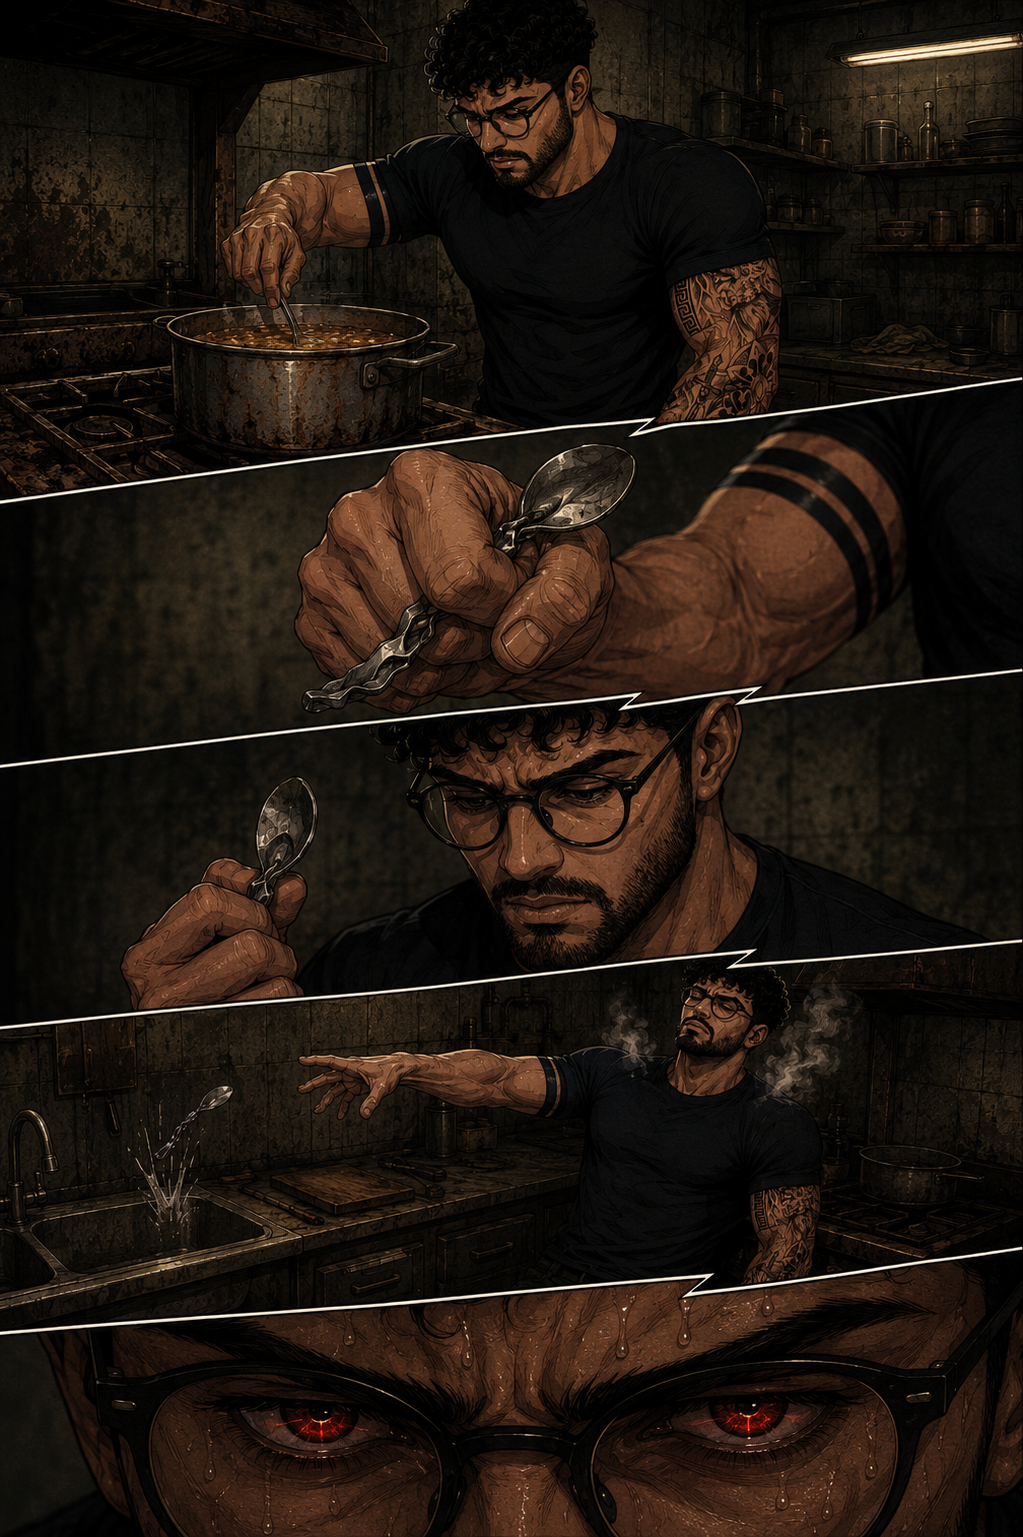
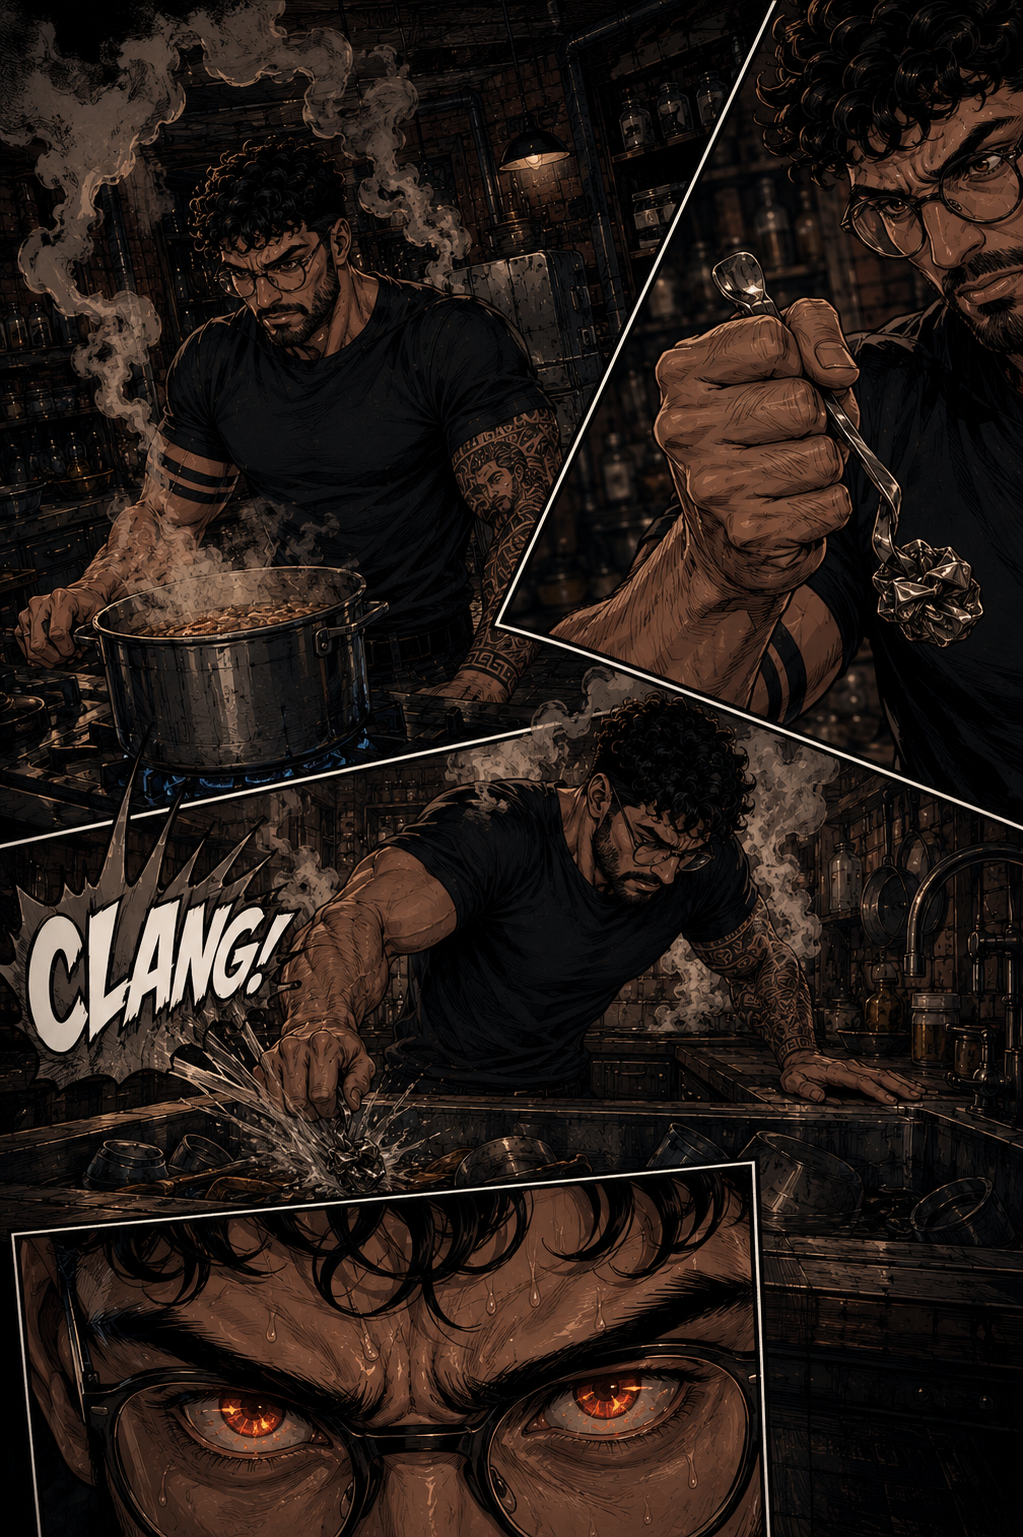
dn

diff --git a/docs/guiones/5_Distrito Nulo/distritonulo_grafico.md b/docs/guiones/5_Distrito Nulo/distritonulo_grafico.md
@@ -97,22 +97,53 @@
 
 ---
 
-### PÁGINA 4.5: Recuperación y Cervezas
+### PÁGINA 4.2: Hidratación y Tensión
 > [!TIP]
 > **PROMPT PARA DIBUJAR ESTA PÁGINA (MIDJOURNEY / DALL-E 3):**
 > Official comic book page layout, multi-panel grid. Modern American dark sci-fi comic book art style. High contrast, desaturated tones. 2D illustration. NO 3D, NO text.
-> Panel 1: In the living room, Uandi is sitting up on the couch, looking slightly better. Julian stands next to him, handing him a glass of water. Uandi takes it with a grateful nod.
-> Panel 2: Julian walks into the workshop door, holding two Corona beer bottles. He hands one bottle to Ian who is sitting at the computer desk, and Julian takes a sip from his own bottle, grinning.
-> Panel 3: Close-up of Julian telling a joke with a sarcastic, mocking gesture. Ian and Uandi are laughing in the background, a moment of warm relief.
-> Panel 4: Close-up of the computer screen in the workshop showing the red spikes flattening down into a calm green baseline.
-> Panel 5: Uandi, looking much better and smiling, pulls the suction sensors off his forehead and arms, leaving the wires hanging.
+> Panel 1: Inside the base kitchen. Julian (slender, fade haircut, navy blue crewneck sweater) is opening an old refrigerator, taking out two Corona beer bottles and holding a glass water pitcher. In the background, visible through the kitchen doorway in the living room, Uandi is sitting on the leather couch with round suction biometric electrodes attached to his head and arms.
+> Panel 2: In the living room, Julian is handing a glass of water to Uandi who is sitting on the couch, looking weak but grateful.
+> Panel 3: Julian enters the workshop, holding two Corona beer bottles. He hands one to Ian who is sitting at the computer desk. Ian looks very worried, staring at the computer screens.
 > --no 3d, photorealistic, cgi, text
 
-* **Viñeta 18 (Plano Americano):** En el living. Uandi se incorpora en el sillón sintiéndose un poco mejor; Julián le entrega un vaso de agua que Uandi recibe agradecido.
-* **Viñeta 18b (Plano Medio):** Julián va al taller con dos botellas de cerveza Corona en la mano; le ofrece una a Ian en su escritorio y él mismo le da un trago a la suya, con una media sonrisa relajada.
-* **Viñeta 18c (Plano Corto):** Julián gesticula mientras dice algo burlón e ingenioso. De fondo, Ian y Uandi se ríen, disipando la tensión acumulada.
-* **Viñeta 18d (Plano Detalle):** La pantalla del taller muestra que las lecturas electromagnéticas han bajado por completo, estabilizándose en una línea horizontal verde.
-* **Viñeta 18e (Plano Medio):** Uandi, ya recuperado y con mejor color, se despega los chupetes de la frente y de los brazos, dejándolos a un lado.
+* **Viñeta 17c (Plano Medio):** En la cocina de la base. Julián está abriendo la heladera vieja, sacando un par de botellas de cerveza Corona y agarrando una jarra de agua. Lanza un comentario al living. Al fondo, a través de la puerta de la cocina, se ve a Uandi sentado en el sillón de cuero con los sensores biométricos de succión puestos en los brazos y la frente.
+* **Viñeta 17d (Plano Medio):** En el living. Julián le entrega un vaso con agua a Uandi. Uandi lo recibe con un gesto de agradecimiento cansado, incorporándose un poco en el sillón.
+* **Viñeta 17e (Plano Americano):** Julián entra al taller del fondo sosteniendo las dos cervezas Corona. Le extiende una a Ian, quien está en su silla frente al escritorio de monitores. Ian sigue sumamente preocupado, con la vista fija en las pantallas del taller que muestran los gráficos en rojo.
+
+---
+
+### PÁGINA 4.5: Estabilización y Alivio
+> [!TIP]
+> **PROMPT PARA DIBUJAR ESTA PÁGINA (MIDJOURNEY / DALL-E 3):**
+> Official comic book page layout, multi-panel grid. Modern American dark sci-fi comic book art style. High contrast, desaturated tones. 2D illustration. NO 3D, NO text.
+> Panel 1: Close-up of the computer screens in the workshop, displaying biometric charts of Uandi. The lines and spikes on the screen are glowing bright red, indicating unstable quantum metrics. Ian is looking at them with a tense, worried expression.
+> Panel 2: Close-up of the computer screen showing the biometric charts. The spikes are starting to settle, and the color on the screens has shifted from red to a warning orange/yellow.
+> Panel 3: Inside the workshop, Ian is looking at the screen which now shows a flat, calm green line. Ian looks relieved, with a slight smile. Julian is standing next to him, raising his Corona beer bottle in a toast. They are both holding their beers.
+> Panel 4: In the living room, Uandi is sitting up on the leather couch, smiling and looking much better. He is pulling the biometric suction electrodes off his arms and forehead, leaving the wires hanging.
+> --no 3d, photorealistic, cgi, text
+
+* **Viñeta 18 (Plano Corto):** En el taller, primer plano de las pantallas mostrando las lecturas de Uandi en picos altos y de un color rojo intenso. La luz roja ilumina el rostro de Ian, quien observa la pantalla con gran preocupación.
+* **Viñeta 18b (Plano Detalle):** La misma pantalla en primer plano. Los picos electromagnéticos empiezan a bajar y el color de las métricas pasa de rojo a un tono naranja de alerta moderada.
+* **Viñeta 18c (Plano Medio):** Ian frente a la pantalla, que ahora muestra las líneas completamente planas y en color verde. Ian exhala un suspiro de alivio y relaja los hombros. A su lado, Julián levanta su botella de Corona brindando con él en el taller para descomprimir.
+* **Viñeta 18d (Plano Americano):** En el living. Uandi está sentado en el sillón de cuero, con mejor color de piel y una sonrisa en el rostro al escuchar a Julián. Se está quitando los sensores de chupete biométricos de los brazos y la frente, dejándolos colgando.
+
+---
+
+### PÁGINA 4.7: El Partido y el Vacío
+> [!TIP]
+> **PROMPT PARA DIBUJAR ESTA PÁGINA (MIDJOURNEY / DALL-E 3):**
+> Official comic book page layout, multi-panel grid. Modern American dark sci-fi comic book art style. High contrast, desaturated tones. 2D illustration. NO 3D, NO text.
+> Visual Continuity Rule: The base living room has a single, large, wide dark brown leather couch. An old CRT TV on a low stand is positioned directly in front of the couch (facing the couch). The camera is always positioned in front of the couch (straight-on frontal view of the couch, never profile/side view). The TV is visually positioned in the foreground on the right side of the frame, angled towards the couch, so we see its screen and side facing the boys (the TV is not next to the couch facing the camera).
+> Panel 1: Inside the base living room. Uandi (robust, round glasses, short trimmed beard) stands up from the large, wide dark brown leather couch and walks slowly towards the kitchen doorway. Straight-on front view of the couch.
+> Panel 2: Julian (slender, fade haircut) is sitting comfortably back on the same large, wide dark brown leather couch, holding a Corona beer bottle. He points a remote control forward. The CRT TV is in the foreground on the right side of the frame, angled towards the couch, showing a green soccer field. Julian looks back towards the workshop doorway, calling out. Straight-on front view of the couch.
+> Panel 3: Ian (slender, thick glasses, grey hoodie) comes out of the workshop and sits down next to Julian on the same large, wide dark brown leather couch. Ian is also holding a Corona beer bottle. The two friends sit side by side on the couch, facing the camera. The CRT TV is in the foreground on the right, angled towards the couch. Straight-on front view of the couch.
+> Panel 4: In the kitchen, Uandi stands in front of the open old refrigerator. The pale cold light from the open fridge illuminates his face, showing empty shelves inside. Uandi is speaking over his shoulder. In the foreground, Ian and Julian are sitting side by side on the same large, wide dark brown leather couch, looking forward. Ian turns his head back to look at Uandi in the kitchen. Julian, next to him, looks very angry/annoyed, holding his beer. The CRT TV is in the foreground on the right, showing a goal (gol) being scored on the screen. Straight-on front view of the couch.
+> --no 3d, photorealistic, cgi, text
+
+* **Viñeta 18e (Plano Medio):** Uandi se levanta del único y amplio sillón de cuero marrón de la base (habiendo dejado a un lado los electrodos biométricos) y se dirige hacia la cocina. El sillón se muestra de frente en plano frontal directo (nunca de perfil o costado).
+* **Viñeta 18e2 (Plano Medio):** Julián se recuesta cómodamente en el mismo sillón de cuero marrón (visto de frente en plano frontal directo). Sintoniza el partido de fútbol usando el control remoto. El televisor de tubo CRT está situado enfrente del sillón, visible en primer plano a la derecha de la viñeta y angulado hacia el sillón para que la pantalla quede a la vista. Julián le grita a Ian hacia el taller.
+* **Viñeta 18e3 (Plano Medio):** Ian sale del taller y se sienta en el sillón junto a Julián. Ambos están sentados lado a lado, de frente al lector (plano frontal directo del sillón), sosteniendo sendas botellas de cerveza Corona. El televisor sigue al frente a la derecha en primer plano.
+* **Viñeta 18e4 (Plano General):** Uandi está parado frente a la heladera abierta de la cocina en el fondo a la izquierda. En primer plano, los chicos están sentados de frente al lector en el sillón de cuero marrón; Ian gira la cabeza hacia atrás para responderle a Uandi. A la derecha de la viñeta, el televisor de tubo CRT (al frente y angulado hacia el sillón) muestra un gol en la pantalla, y Julián mira con gesto de bronca y enojado.
 
 ---
 
@@ -120,18 +151,17 @@
 > [!TIP]
 > **PROMPT PARA DIBUJAR ESTA PÁGINA (MIDJOURNEY / DALL-E 3):**
 > Official comic book page layout, multi-panel grid. Modern American dark sci-fi comic book art style. High contrast, desaturated tones. 2D illustration. NO 3D, NO text.
+> Visual Continuity Rule: The base living room features a single, large, wide dark brown leather couch. An old CRT TV on a low stand is positioned directly in front of the couch (facing the couch). The camera is always positioned directly in front of the couch (straight-on frontal view, never profile). The TV is visually positioned in the foreground on the right side of the frame, angled towards the couch, so we see its screen and side facing the boys (the TV is not next to the couch facing the camera).
 > Panel 1: Inside the base kitchen/living area. Close-up of Ian's hand setting down an empty Corona beer bottle on the rustic wooden table.
-> Panel 2: Uandi is standing by the open old refrigerator in the background, looking inside. The pale cold light of the fridge glows on his face. The shelves are empty except for some half-empty jars. Uandi has a disappointed look.
-> Panel 3: Ian is putting on his dark grey hooded jacket, looking back at Uandi. Uandi is closing the fridge door, speaking over his shoulder.
-> Panel 4: Ian and Uandi are walking towards the main door, wearing their hooded jackets. In the background, Julian is sitting back comfortably on the large leather couch, holding a remote control. The glowing CRT TV screen in front of him shows a soccer/football match with a green pitch.
-> Panel 5: Close-up of Julian sitting on the couch, staring at the TV with complete disinterest, waving a hand dismissively without looking at them.
+> Panel 2: Uandi is closing the old refrigerator door, looking back over his shoulder. Ian is putting on his dark grey hooded jacket.
+> Panel 3: Ian and Uandi are walking towards the main door, wearing their hooded jackets. In the background, Julian is sitting back comfortably on the same large, wide dark brown leather couch, holding a remote control. The TV screen in front of him on the right is glowing. Straight-on front view of the couch.
+> Panel 4: Close-up of Julian sitting on the same large, wide dark brown leather couch, staring at the TV on the right, waving a hand dismissively without looking at them. Straight-on front view of the couch.
 > --no 3d, photorealistic, cgi, text
 
 * **Viñeta 18f (Plano Detalle):** Primer plano de la mano de Ian apoyando la botella vacía de cerveza Corona sobre la mesa rústica de madera de la base.
-* **Viñeta 18g (Plano Medio):** Uandi frente a la vieja heladera abierta en la cocina, revisando su interior. La luz fría interna ilumina su rostro, mostrando estantes casi desiertos.
-* **Viñeta 18h (Plano Medio):** Uandi cierra la heladera y habla de espaldas, mientras Ian se pone su campera gris con capucha, respondiéndole con un gesto de cabeza.
-* **Viñeta 18i (Plano General):** Ian y Uandi avanzan hacia la puerta de salida abrigados con sus capuchas. De fondo, Julián se acomoda en el amplio sillón de cuero frente al televisor de tubo, sintonizando un partido de fútbol con la pantalla brillando en verde.
-* **Viñeta 18j (Primer Plano):** Julián desde el sillón, con la vista fija en la tele, levantando la mano en un gesto de desinterés despectivo y sarcasmo, sin molestarse en mirarlos.
+* **Viñeta 18g (Plano Medio):** Uandi cierra la puerta de la heladera de un golpe, hablando de espaldas, mientras Ian se coloca su campera gris texturizada con capucha y se la cierra.
+* **Viñeta 18h (Plano General):** Ian y Uandi avanzan abrigados con sus capuchas hacia la puerta trasera de salida de la base. De fondo, se observa el sillón de cuero de frente en plano frontal directo con Julián sentado en él, y el televisor enfrente de él a la derecha de la viñeta encendido.
+* **Viñeta 18i (Primer Plano):** Julián en el sillón de cuero marrón (visto de frente en plano frontal directo), con la vista clavada en la tele al frente a la derecha, levantando la mano libre en un gesto de desinterés absoluto y sarcasmo, despidiéndolos sin mirarlos.
 
 ---
 

diff --git a/docs/guiones/5_Distrito Nulo/distritonulo_guion.md b/docs/guiones/5_Distrito Nulo/distritonulo_guion.md
@@ -52,30 +52,47 @@
 
 ---
 
-### PÁGINA 4.5 (Recuperación y Cervezas)
-* **Viñeta 18 (Plano Americano):** De regreso en el living. Uandi se reincorpora en el sillón con un semblante un poco más recuperado y mejor color de piel. Julián está a su lado entregándole un vaso de agua fría, el cual Uandi toma agradecido con un gesto de cabeza.
+### PÁGINA 4.2 (Hidratación y Tensión)
+* **Viñeta 17c (Plano Medio):** En la cocina de la base. Julián está abriendo la heladera vieja, sacando un par de botellas de cerveza Corona y agarrando una jarra de agua. Lanza un comentario cómico al living para intentar aliviar el ambiente. Al fondo, a través del marco de la puerta de la cocina, se ve a Uandi sentado en el sillón de cuero con los electrodos biométricos de succión pegados en los brazos y en la frente.
+  * **JULIÁN:** —¡Che, sabelotodo! ¿Uandi toma agua o le damos de la canilla para ver si brilla en la oscuridad?
+* **Viñeta 17d (Plano Medio):** En el living de la base. Julián le entrega un vaso de agua fresca (servida de la jarra) a Uandi. Uandi lo toma con manos temblorosas y le da un trago largo, agradeciendo con un gesto de cabeza cansado.
   * **JULIÁN:** —Tomá, gordo, metele agua que estás seco. Casi te vas al lobby.
   * **UANDI:** —Gracias, che. Se me está pasando un poco...
-* **Viñeta 18b (Plano Medio):** Julián entra al taller de Ian sosteniendo dos botellas de cerveza Corona heladas. Le ofrece una a Ian en su silla de trabajo y Julián le da un trago a la suya con una media sonrisa tranquila.
+* **Viñeta 17e (Plano Americano):** Julián entra al taller con dos botellas de cerveza Corona heladas. Le extiende una a Ian, quien está sentado frente a su escritorio rodeado de monitores. Ian sigue extremadamente preocupado, con la vista fija en las pantallas del taller que muestran los gráficos en un preocupante color rojo brillante.
   * **JULIÁN:** —Tomate una Corona, sabelotodo. Así te relajás un toque, que tenés una cara de bardo que asusta.
-* **Viñeta 18c (Plano Corto):** Julián gesticula de forma graciosa e ingeniosa, buscando desdramatizar. Al fondo de la viñeta, Ian y Uandi sonríen y se ríen levemente, sintiendo un cálido alivio doméstico.
-  * **JULIÁN:** —Che, si Uandi estira la pata por esta gripe interdimensional, me pido su campera táctica. A mí me va a quedar más facherita.
-* **Viñeta 18d (Plano Detalle):** Primer plano de la pantalla del monitor en el taller, donde los picos rojos ruidosos finalmente bajan y se estabilizan en una línea verde lisa y horizontal.
-* **Viñeta 18e (Plano Medio):** Uandi, con mejor semblante, se arranca los cables y chupetes de la frente y de los brazos desnudos, dejándolos sobre el sillón.
+
+---
+
+### PÁGINA 4.5 (Estabilización y Alivio)
+* **Viñeta 18 (Plano Corto):** En el taller, primer plano de las pantallas mostrando las lecturas de Uandi en picos cuánticos caóticos y de un color rojo intenso. La luz roja ilumina el rostro de Ian, quien observa las lecturas con angustia y el ceño muy fruncido.
+  * **IAN:** —(Susurrando para sí mismo, tenso) Sigue demasiado inestable...
+* **Viñeta 18b (Plano Detalle):** Primer plano de la pantalla. Los picos electromagnéticos y las anomalías de energía empiezan a calmarse, y el color de las métricas pasa de un rojo vivo a un tono naranja de alerta moderada. Ian contiene la respiración, observando con suma atención.
+* **Viñeta 18c (Plano Medio):** Ian frente a la pantalla, que finalmente muestra las líneas totalmente estables y en un color verde brillante. Ian suspira aliviado y relaja los hombros con una pequeña sonrisa. A su lado en el taller, Julián levanta su botella de Corona con una media sonrisa relajada, chocándola suavemente con la de Ian.
+  * **JULIÁN:** —Viste, te dije que era una gripe de mierda. Che, si Uandi estira la pata por esta gripe interdimensional, me pido su campera táctica. A mí me va a quedar más facherita.
+  * **IAN:** —(Sonriendo levemente, chocando la cerveza) Sos insoportable, Julián.
+* **Viñeta 18d (Plano Americano):** En el living. Uandi, sentado en el sillón de cuero gastado y viéndose mucho mejor y con color de piel normal, sonríe al escuchar la voz de Julián desde el taller. Empieza a retirarse los sensores de chupete biométricos de la frente y de los brazos descubiertos, dejándolos caer sobre el sillón mientras sonríe con alivio.
   * **UANDI:** —Listo, ya fue. Me siento diez puntos ahora. Ian, apagá esa máquina que me da dolor de cabeza.
 
 ---
 
-### PÁGINA 4.8 (La Heladera Vacía)
+### PÁGINA 4.7 (El Partido y el Vacío)
+* **Viñeta 18e (Plano Medio):** Uandi se levanta del sillón de cuero gastado del living, estirándose tras haberse quitado los electrodos de chupete biométricos. Se le ve cansado pero recuperado, caminando con paso lento pero firme hacia la cocina en el fondo de la base.
+* **Viñeta 18e2 (Plano Medio):** Julián se tira cómodamente en el amplio sillón de cuero, sosteniendo su botella de cerveza Corona helada. Agarra el control remoto de la mesa y enciende la TV de tubo CRT, sintonizando la transmisión de un partido de fútbol con la pantalla brillando en verde. Se da vuelta un poco para gritarle a Ian en el taller.
+  * **JULIÁN:** —¡Che, Ian! Vení que ya arranca el partido. Dejá de perseguirte con las pantallitas.
+* **Viñeta 18e3 (Plano Medio):** Ian sale por la puerta del taller con su cerveza Corona en la mano y se sienta en el sillón al lado de Julián. Ambos amigos se recuestan juntos frente a la televisión, Ian tomando un sorbo largo de su botella y respirando con alivio.
+* **Viñeta 18e4 (Plano General):** Uandi está en la cocina de la base, de pie frente a la heladera vieja y abierta. La luz fría interna ilumina su rostro, mostrando estantes casi desiertos salvo por un par de frascos vacíos. Uandi habla de espaldas al living; Ian, sentado en el sillón de cuero, gira la cabeza hacia atrás para mirarlo y responderle. Al lado, Julián tiene la botella de Corona en la mano y mira fijamente el partido de la tele con gesto de bronca y cara de pocos amigos porque en la pantalla se ve claramente que acaban de anotar un gol en contra.
+  * **UANDI:** —Che, en esta heladera no hay una mierda. Ni un cacho de queso de la semana pasada.
+
+---
+
+### PÁGINA 4.8 (La Heladera y la Salida)
 * **Viñeta 18f (Plano Detalle):** Un primer plano de la mano de Ian apoyando con suavidad su botella de cerveza Corona vacía sobre la mesa rústica de madera de la base.
   * **EFECTO DE SONIDO:** ¡CLINK!
-* **Viñeta 18g (Plano Medio):** Uandi frente a la heladera vieja y abierta de la cocina. La luz pálida del electrodoméstico le da de lleno en la cara, revelando estantes casi vacíos salvo por unos pocos frascos de conserva vacíos. Uandi tiene un gesto de clara decepción.
-  * **UANDI:** —Che, en esta heladera no hay una mierda. Ni un cacho de queso de la semana pasada.
-* **Viñeta 18h (Plano Medio):** Uandi cierra la heladera de un golpe de espaldas. A un lado, Ian se pone su campera con capucha gris texturizada y le responde mirándolo de reojo.
+* **Viñeta 18g (Plano Medio):** Uandi cierra la puerta de la heladera de un golpe de espaldas. A un lado, Ian se pone su campera con capucha gris texturizada, subiéndose el cierre mientras le responde mirándolo de reojo.
   * **IAN:** —Vamos al chino de la esquina a comprar carne y verduras. Hacemos un guiso caliente, a ver si con eso recuperás fuerzas.
-* **Viñeta 18i (Plano General):** Ian y Uandi avanzan hacia la puerta trasera de chapa abrigados con sus capuchas. Al fondo de la escena, Julián se acomoda de forma displicente en el amplio sillón de cuero frente al televisor de tubo CRT, que sintoniza un partido de fútbol con la pantalla brillando en tonos verdosos.
+* **Viñeta 18h (Plano General):** Ian y Uandi avanzan hacia la puerta trasera de chapa de salida de la base abrigados con sus capuchas. Al fondo de la escena, Julián sigue cómodamente tirado en el amplio sillón de cuero de espaldas, con el partido de fútbol de fondo en la televisión de tubo CRT.
   * **UANDI:** —Julián, vamos a comprar para cenar. ¿Querés algo?
-* **Viñeta 18j (Primer Plano):** Julián desde el sillón, con la vista fija en la televisión, levantando despectivamente la mano libre en un gesto de desinterés absoluto e ironía, sin dignarse a mirarlos.
+* **Viñeta 18i (Primer Plano):** Julián desde el sillón, con la vista fija en la televisión, levantando la mano libre en un gesto de desinterés absoluto e ironía, despidiéndolos sin molestarse en mirarlos.
   * **JULIÁN:** —Sí, papá, vayan tranquilos. Si cae la infantería de Vanguard, les digo que se sienten a ver el partido y los esperen con unos mates. Traigan alfajores si les queda cambio.
 
 ---

diff --git a/docs/guiones/5_Distrito Nulo/distritonulo.md b/docs/guiones/5_Distrito Nulo/distritonulo.md
@@ -27,14 +27,34 @@
 * **Viñeta 7 (Plano Detalle):** Ian se encierra en su taller con su computadora y múltiples monitores. Ejecuta el examen y ve con espanto gráficos con picos cuánticos/electromagnéticos caóticos en sangre, idénticos a los del portal.
   * **IAN:** —(Asustado) No... esto no es una gripe... Es la firma cuántica del portal en sus células.
 
-### PÁGINA 4.5 (La Recuperación)
-* **Viñeta 7b (Plano Medio):** Uandi se reincorpora sintiéndose mejor; Julián le da un vaso de agua. Julián entra al taller con dos botellas de cerveza Corona y le convida una a Ian.
-* **Viñeta 7c (Plano Corto):** Julián bromea sobre quedarse con la campera de Uandi si se muere, haciéndolos reír a todos. Las lecturas en la pantalla del taller bajan y se normalizan en una línea verde. Uandi se quita los cables.
-  * **JULIÁN:** —Che, si Uandi estira la pata por esta gripe, me pido su campera táctica.
+### PÁGINA 4.2 (Hidratación y Tensión)
+* **Viñeta 7b (Plano Medio):** Julián en la cocina de la base. Se le ve abriendo la heladera vieja, buscando unas botellas de cerveza Corona y agarrando una jarra de agua. Lanza un comentario humorístico en voz alta. De fondo, a lo lejos en el sillón del living, se observa a Uandi sentado con los electrodos biométricos de succión colocados.
+  * **JULIÁN:** —¡Che, sabelotodo! ¿Uandi toma agua o le damos de la canilla para ver si brilla en la oscuridad?
+* **Viñeta 7c (Plano Medio):** Julián le entrega un vaso de agua (servido de la jarra) a Uandi, quien está en el sillón y lo recibe con un gesto de cabeza agradecido pero cansado.
+  * **JULIÁN:** —Tomá, gordo, metele agua que estás seco. Casi te vas al lobby.
+  * **UANDI:** —Gracias, che. Se me está pasando un poco...
+* **Viñeta 7d (Plano Medio):** Julián entra al taller del fondo sosteniendo dos botellas de cerveza Corona. Le ofrece una a Ian y él se queda con la otra. Ian está en su escritorio, tenso y muy preocupado, mirando fijamente las pantallas que muestran los gráficos en un preocupante color rojo.
+  * **JULIÁN:** —Tomate una Corona, genio. Así bajás un cambio, que tenés una cara de estreñido que asusta.
+
+### PÁGINA 4.5 (Estabilización y Alivio)
+* **Viñeta 7e (Plano Detalle):** Primer plano de la pantalla en el taller, donde Ian observa con angustia cómo los gráficos biométricos de Uandi siguen marcando picos y anomalías en color rojo intenso.
+* **Viñeta 7f (Plano Detalle):** La misma pantalla en otra viñeta. Los picos empiezan a descender y a calmarse, y el color de las métricas pasa de rojo a un tono naranja de alerta moderada. Ian lo mira fijamente con ceño fruncido, conteniendo el aliento.
+* **Viñeta 7g (Plano Medio):** Ian mira la pantalla que ahora muestra las métricas completamente estabilizadas en una línea verde horizontal y tranquila. Ian exhala un suspiro largo de alivio y sonríe, relajando los hombros. Julián levanta su Corona brindando con Ian en el taller.
+  * **JULIÁN:** —Viste, te dije que era una gripe de mierda. Che, si Uandi estira la pata por esta gripe interdimensional, me pido su campera táctica. A mí me va a quedar más facherita.
+* **Viñeta 7h (Plano Medio):** En el living. Uandi, sentado en el sillón de cuero y viéndose mucho mejor, sonríe al escuchar el chiste de Julián desde el taller y se quita los electrodos de la frente y de los brazos, dejándolos caer con los cables colgando.
+  * **UANDI:** —Listo, ya fue. Me siento diez puntos ahora. Ian, apagá esa máquina que me da dolor de cabeza.
+
+### PÁGINA 4.7 (El Partido y el Vacío)
+* **Viñeta 7i (Plano Medio):** Uandi se levanta del sillón (tras haberse quitado los electrodos) y camina con paso aún algo pesado hacia la cocina de la base.
+* **Viñeta 7j (Plano Medio):** Julián se tira cómodamente en el amplio sillón de cuero con su botella de cerveza Corona, enciende la TV de tubo CRT con el control remoto y le habla a Ian en el taller.
+  * **JULIÁN:** —¡Che, Ian! Vení que ya arranca el partido. Dejá de perseguirte con las pantallitas.
+* **Viñeta 7k (Plano Medio):** Ian sale del taller con su cerveza Corona en la mano y se sienta en el sillón al lado de Julián, respirando con alivio.
+* **Viñeta 7l (Plano General):** Uandi está en la cocina frente a la heladera vieja y abierta, con la luz fría iluminándolo. Habla de espaldas hacia el living; Ian se gira en el sillón para mirarlo. Al lado, Julián mira fijo el televisor con gesto de bronca y cara de pocos amigos al ver que metieron un gol en contra en el partido.
+  * **UANDI:** —Che, en esta heladera no hay una mierda. Ni un cacho de queso de la semana pasada.
 
 ### PÁGINA 4.8 (La Heladera y la Salida)
-* **Viñeta 7d (Plano Detalle):** Ian deja su cerveza vacía sobre la mesa rústica. Uandi abre la vieja heladera de la cocina, la revisa y ve que está vacía; le dice a Ian que hay que ir a comprar carne y verduras al chino para la cena.
-* **Viñeta 7e (Plano General):** Ambos se abrigan con sus camperas y capuchas para salir. Julián se tira cómodamente en el sillón de cuero a ver un partido de fútbol en la tele y les responde con total desinterés y sarcasmo cuando le avisan que se van.
+* **Viñeta 7m (Plano Detalle):** Ian deja su cerveza vacía sobre la mesa rústica. Uandi cierra la heladera vieja, y le dice a Ian que hay que ir a comprar carne y verduras al chino para la cena.
+* **Viñeta 7n (Plano General):** Ambos se abrigan con sus camperas y capuchas para salir. Julián sigue tirado en el sillón frente al partido y les responde con desinterés y sarcasmo cuando le avisan que se van.
   * **JULIÁN:** —Sí, papá, vayan tranquilos. Si cae la infantería de Vanguard, les digo que se sienten a ver el partido y los esperen con unos mates.
 
 ### PÁGINA 5 (La Caminata)

diff --git a/docs/guiones/5_Distrito Nulo/distritonulo_resumen.md b/docs/guiones/5_Distrito Nulo/distritonulo_resumen.md
@@ -20,8 +20,10 @@
 * **Puntos Clave:**
   - **Págs. 1 - 2 (El regreso del aeropuerto):** Viaje nocturno en auto de vuelta del aeropuerto JFK en una Nueva York gris y otoñal. Un silencio pesado envuelve a los chicos tras despedir a Sofi (quien se fue a Tokio). A través de un diálogo orgánico sin exposición burda, recuerdan que Sofi pertenece al Universo 5458, que dicho mundo se destruyó tras el noclip accidental que hicieron para rescatar a Julián de los Backrooms, y que ella decidió quedarse a conocer la Tierra antes que desvanecerse.
   - **Págs. 3 - 4 (La Base de Dumbo y los exámenes):** Al llegar a la base, Julián e Ian se dispersan en sus tareas. Julián se sienta en el sillón de cuero gastado del living, pero Ian entra cargando a Uandi (visiblemente descompuesto, transpirando frío y temblando) y obliga a Julián a levantarse para sentar allí a Uandi. Ian le conecta sensores de chupete en los brazos y frente. Luego, Ian va a su taller y realiza el examen de estado de Uandi desde su computadora rodeado de monitores. Detecta picos electromagnéticos y anomalías cuánticas alarmantes en la sangre de Uandi, asustándose mucho.
-  - **Pág. 4.5 (Recuperación y cerveza):** Uandi se siente mejor poco a poco en el sillón. Julián le da un vaso de agua y le ofrece una cerveza Corona a Ian. Ambos (Ian y Julián) beben cerveza y Julián suelta un comentario gracioso. Se ríen. Ian ve que las lecturas en sus monitores son buenas ahora, y Uandi se quita los cables.
-  - **Pág. 4.8 (La heladera y la salida):** Ian deja su cerveza vacía en la mesa. Uandi va a la heladera, la revisa y nota que no hay nada para cenar; Ian le responde que vayan a comprar los ingredientes al chino. Ambos se preparan para salir. Mientras tanto, Julián se sienta cómodo en el sillón a mirar un partido de fútbol en la televisión y les responde con desinterés y sarcasmo cuando le avisan que salen.
+  - **Pág. 4.2 (Hidratación y Cervezas):** Julián va a la heladera de la base y saca un par de cervezas Corona y una jarra de agua. Le lleva un vaso de agua a Uandi al sillón del living, y luego se dirige al taller a ofrecerle una Corona a Ian. Ian, no obstante, sigue muy preocupado mirando las lecturas caóticas en rojo en las pantallas del taller.
+  - **Pág. 4.5 (Estabilización y Alivio):** Ian observa las lecturas de Uandi en su monitor, las cuales pasan progresivamente de rojo a naranja, y finalmente a verde, indicando que se ha estabilizado. Julián bromea sobre quedarse con la campera de Uandi si se muere, lo que hace que ambos brinden con su Corona relajando la tensión. En el living, Uandi se siente recuperado, sonríe y se quita los electrodos de succión del sillón.
+  - **Pág. 4.7 (El Partido y el Vacío):** Uandi se dirige a la cocina mientras Julián se instala en el sillón con su cerveza y enciende la TV para ver el fútbol, llamando a Ian. Ian sale del taller y se sienta con él a ver el partido, Corona en mano. Al fondo, Uandi abre la heladera y avisa que está vacía, mientras que Julián se enoja con la TV porque acaban de hacer un gol.
+  - **Pág. 4.8 (La heladera y la salida):** Ian deja su cerveza vacía sobre la mesa. Uandi cierra la heladera y deciden ir a comprar carne y verduras al chino para la cena. Ambos se abrigan para salir, y Julián les responde con total desinterés y sarcasmo, inmerso en el partido.
   - **Págs. 5 - 7 (La caminata y el accidente de las vigas):** Ian y Uandi salen a caminar de noche bajo la llovizna otoñal para comprar carne y verduras para el guiso. Desarrollan una charla más profunda e íntima sobre el bardo de las lecturas y cómo se siente Uandi. La conversación y el entorno húmedo y frío de Brooklyn crean una atmósfera tensa. De repente, al pasar por debajo de una zona de obras, el cable de una grúa cede y varias vigas de acero masivas se precipitan sobre Ian. Uandi actúa por puro instinto protector: se interpone y el impacto es brutal, pero el metal se deforma alrededor de sus antebrazos al absorber la energía cinética del golpe, dejándolos ilesos pero en shock.
   - **Pág. 7.5 (El Peso del Metal):** Uandi se mantiene erguido bajo la lluvia sosteniendo la viga doblada en su espalda. El metal se calienta al rojo vivo en los hombros donde toca su piel, pero Uandi la deja caer con facilidad, agrietando el asfalto. Arriba en los andamios, los obreros de la construcción miran hacia abajo con total desconcierto. Uandi se mira las manos y luego mira a Ian con profunda intriga.
   - **Págs. 8 - 10.5 (El secreto, los mensajes misteriosos y la tensión doméstica):** De regreso en la base, acuerdan mantener el incidente en secreto. En la **Pág. 8.5**, Ian y Uandi entran silenciosamente mientras Julián mira el partido y escribe un mensaje misterioso (*"¿que sale?"*) a un contacto desconocido. Uandi se escabulle al garaje e Ian sube a su cuarto. En la **Pág. 9**, Uandi prueba su fuerza en el garaje levantando el automóvil. En la **Pág. 10**, Julián entra de imprevisto y bromea con su cinismo habitual diciéndole que use la linterna. En la **Pág. 10.5**, de vuelta en la base, Julián sigue misterioso: recibe otro mensaje y escribe de nuevo *"¿que sale?"*. Observa a Uandi ir a la cocina y le avisa que sale a ver a los Knicks antes de retirarse. Uandi lo ignora, pero vemos con horror que Uandi ha doblado el cuchillo de cocina de acero como si fuera de goma bajo el sudor de pánico por su fuerza cinética incontrolable.